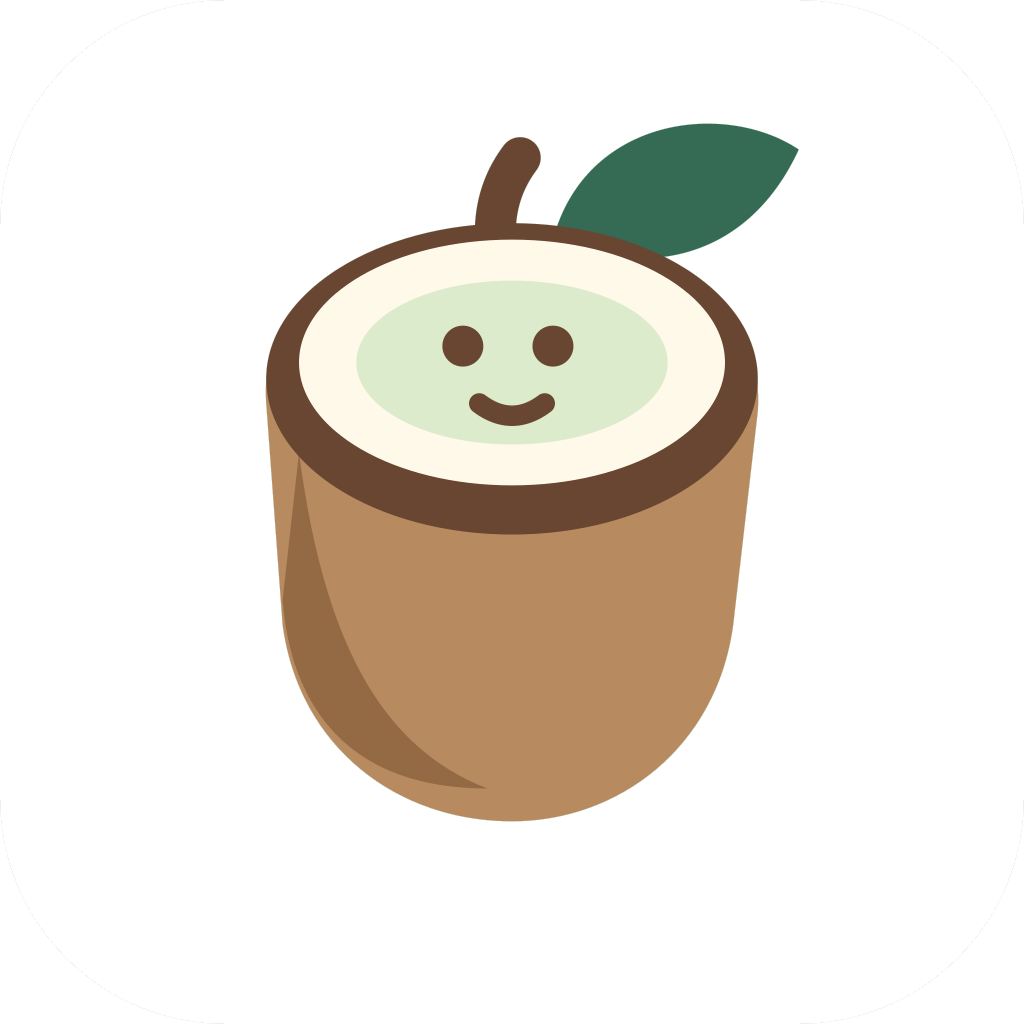
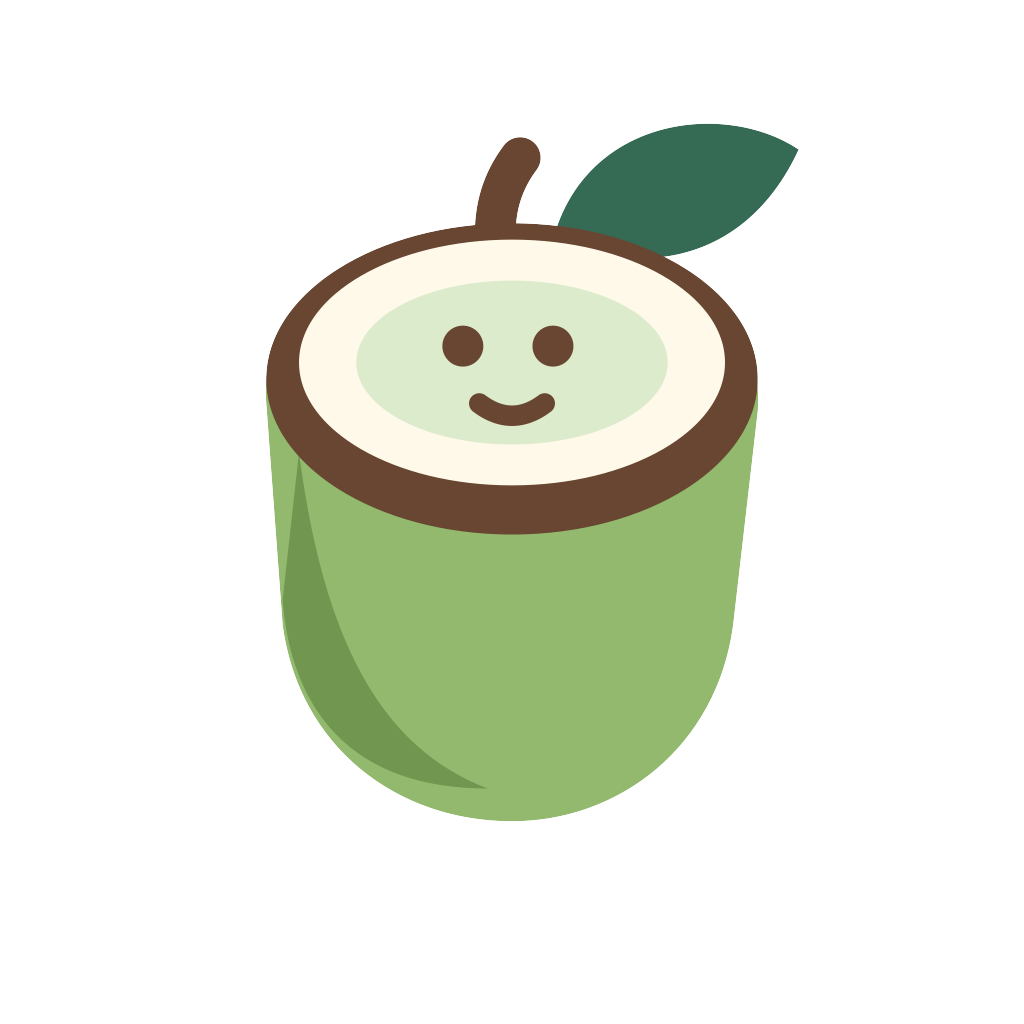
Restore green coconut and align UI with warm natural palette

Changed region(s): [[0.25, 0.375, 0.75, 0.8125]]

diff --git a/src/components/CoconutLogo.tsx b/src/components/CoconutLogo.tsx
@@ -6,8 +6,8 @@ export function CoconutLogo({ size = 40 }: { size?: number }) {
     <Svg width={size} height={size} viewBox="0 0 100 100" accessibilityLabel="Buko coconut" accessibilityRole="image">
       <Path d="M55 23C59 8 76 6 85 12C79 25 67 28 55 23Z" fill="#356A55" />
       <Path d="M49 29C47 22 48 17 51 13" stroke="#684632" strokeWidth="5" strokeLinecap="round" />
-      <Path d="M20 43C19 29 33 22 50 22C67 22 81 30 80 44L77 70C75 85 63 94 50 94C36 94 24 85 22 70Z" fill="#B88A60" />
-      <Path d="M24 49C27 72 34 85 47 90C30 90 23 80 22 67Z" fill="#946A45" />
+      <Path d="M20 43C19 29 33 22 50 22C67 22 81 30 80 44L77 70C75 85 63 94 50 94C36 94 24 85 22 70Z" fill="#92B96D" />
+      <Path d="M24 49C27 72 34 85 47 90C30 90 23 80 22 67Z" fill="#70964F" />
       <Ellipse cx="50" cy="40" rx="30" ry="19" fill="#684632" />
       <Ellipse cx="50" cy="38" rx="26" ry="15" fill="#FFF9E9" />
       <Ellipse cx="50" cy="38" rx="19" ry="10" fill="#DCEBCB" />

diff --git a/app/(auth)/sign-in.tsx b/app/(auth)/sign-in.tsx
@@ -26,7 +26,7 @@ export default function SignIn() {
       <View style={{ marginTop: height < 500 ? spacing.sm : spacing.xxl * 2, marginBottom: spacing.xl, paddingHorizontal: spacing.sm }}>
         <View style={{ flexDirection: 'row', alignItems: 'center', gap: spacing.sm }}>
           <CoconutLogo size={52} />
-          <Text style={{ fontSize: 40, fontWeight: '800', letterSpacing: -1.5, color: colors.primary }}>Buko</Text>
+          <Text style={{ fontSize: 40, fontWeight: '800', letterSpacing: -1.5, color: colors.brandBrown }}>Buko</Text>
         </View>
         <Body muted>Scan it. Plan it. Cook it. Log it.</Body>
       </View>

diff --git a/src/theme/index.ts b/src/theme/index.ts
@@ -1,10 +1,11 @@
 export const colors = {
-  background: '#F3F5F7',
+  background: '#F7F5EF',
   surface: '#FFFFFF',
-  surfaceMuted: '#E9EDF0',
-  border: '#E1E7E9',
+  surfaceMuted: '#EEEAE0',
+  border: '#E3DDD0',
   text: '#182923',
-  textMuted: '#596B63',
+  textMuted: '#716354',
+  brandBrown: '#684632',
   primary: '#356A55',
   primaryPressed: '#285340',
   primarySoft: '#E5F1E9',

diff --git a/README.md b/README.md
@@ -70,7 +70,7 @@ The app uses the full width on phones and a centered frame (up to 1040 px) on de
 Native builds allow portrait and landscape orientations. Existing installed native builds need rebuilding to pick up the orientation setting; the browser version adapts immediately.
 
 ### Interaction and visual design
-Buko shares an iOS-inspired visual system across native and web: grouped neutral backgrounds, rounded surfaces, clear focus states, and a highlighted active tab. Buttons, chips, profile actions, and recipe cards use subtle Reanimated spring feedback; macro bars animate changes and tabs fade between screens. Motion respects the device/browser reduced-motion preference. There are no separate web-only Tailwind or Motion dependencies.
+Buko shares an iOS-inspired visual system across native and web: rounded surfaces, clear focus states, and a highlighted active tab. The palette follows the green coconut logo: forest-green actions, soft cream backgrounds, white cards, and warm shell-brown secondary text and wordmark accents. Health-score and macro colors retain their distinct meanings. Buttons, chips, profile actions, and recipe cards use subtle Reanimated spring feedback; macro bars animate changes and tabs fade between screens. Motion respects the device/browser reduced-motion preference. There are no separate web-only Tailwind or Motion dependencies.
 
 ### Starter libraries and routines
 - **Recipes → Browse recipe library:** 12 original, simple recipes across breakfast, lunch, dinner and snacks. Preview ingredients/steps, tap **Use**, customize the draft and **Save recipe** to add a private copy. Library originals stay unchanged. Nutrition comes from ingredient matching; it is not pre-certified. Check ingredients for allergies.
